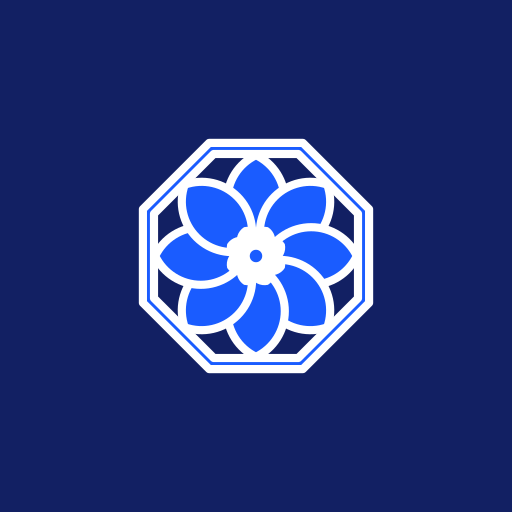
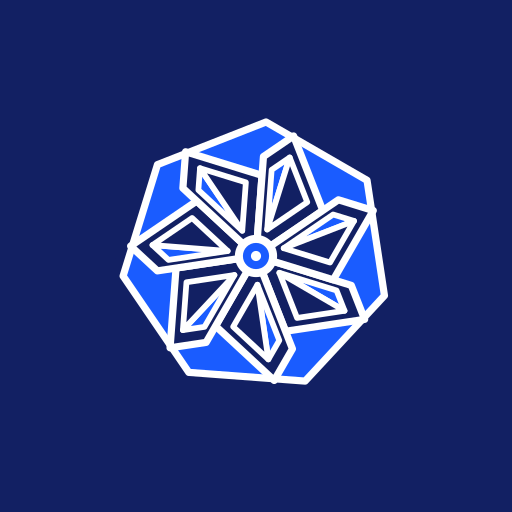
feat(brand): one asymmetric trapezoid, turned seven times
Replaces the vortex mark. The figure is a single tile: a trapezoid whose
interior angles are 360/7, 900/7, 540/7 and 720/7 degrees, which is 51.4286
at the centre, 128.5714 (the heptagon's own interior angle), 77.1429 and
102.8571. They sum to 360 and pair off to 180 across each leg, so exactly one
pair of sides is parallel and the shape is a true trapezoid.

It is deliberately not symmetric. An isosceles tile spun seven times gives a
flower, which is the obvious thing and reads as one; this one has a long leg
and a short one, so the seven copies all lean the same way and the mark turns
instead of sitting still.

Solved from the angles rather than from coordinates: the perimeter is walked
from the centre, turning by 180 minus each interior angle, and the last edge
is closed against the ray the first one left along. The angles are therefore
exact by construction rather than right to three decimals, and the apex being
exactly a seventh of a turn is what lets seven copies close with no gap.

Each tile carries three facets in the two blues, so a single shape reads as
two-toned and the ring reads as a pinwheel. Three tiers as before, because
one geometry cannot span 256px to 16px: facet edges go sub-pixel well before
24px, so the small tier draws the tile and its core and nothing finer.

The three.js mark is gone, replaced by motion/react: one orchestrated moment
on the sign-in screen, the tiles turning in a seventh apart so each arrives
[…]

Changed region(s): [[0.2188, 0.2188, 0.7812, 0.75]]

diff --git a/apps/frontend/src/lib/mark-geometry.ts b/apps/frontend/src/lib/mark-geometry.ts
@@ -19,7 +19,7 @@ export type MarkTier = "large" | "medium" | "small";
 export const MARK_CENTRE = 32;
 
 export const MARK_GEOMETRY: Record<MarkTier, { colour: MarkShape[]; mono: MarkShape[] }> = {
-  large: { colour: [{"d":"M60.64 43.86 L43.86 60.64 L20.14 60.64 L3.36 43.86 L3.36 20.14 L20.14 3.36 L43.86 3.36 L60.64 20.14 Z","fill":"#122063"},{"d":"M55.56 41.76 L41.76 55.56 L22.24 55.56 L8.44 41.76 L8.44 22.24 L22.24 8.44 L41.76 8.44 L55.56 22.24 Z","fill":"#1A5CFF","stroke":"#FFFFFF","strokeWidth":1.25},{"d":"M53.25 40.80 L40.80 53.25 L23.20 53.25 L10.75 40.80 L10.75 23.20 L23.20 10.75 L40.80 10.75 L53.25 23.20 Z","fill":"#122063","stroke":"#FFFFFF","strokeWidth":1.25},{"d":"M32 30.00 A11.84 11.84 0 0 1 32 10.00 A11.84 11.84 0 0 1 32 30.00 Z","fill":"#1A5CFF","stroke":"#FFFFFF","strokeWidth":1.25,"transform":"rotate(0 32 32)"},{"d":"M32 30.00 A11.84 11.84 0 0 1 32 10.00 A11.84 11.84 0 0 1 32 30.00 Z","fill":"#1A5CFF","stroke":"#FFFFFF","strokeWidth":1.25,"transform":"rotate(45 32 32)"},{"d":"M32 30.00 A11.84 11.84 0 0 1 32 10.00 A11.84 11.84 0 0 1 32 30.00 Z","fill":"#1A5CFF","stroke":"#FFFFFF","strokeWidth":1.25,"transform":"rotate(90 32 32)"},{"d":"M32 30.00 A11.84 11.84 0 0 1 32 10.00 A11.84 11.84 0 0 1 32 30.00 Z","fill":"#1A5CFF","stroke":"#FFFFFF","strokeWidth":1.25,"transform":"rotate(135 32 32)"},{"d":"M32 30.00 A11.84 11.84 0 0 1 32 10.00 A11.84 11.84 0 0 1 32 30.00 Z","fill":"#1A5CFF","stroke":"#FFFFFF","strokeWidth":1.25,"transform":"rotate(180 32 32)"},{"d":"M32 30.00 A11.84 11.84 0 0 1 32 10.00 A11.84 11.84 0 0 1 32 30.00 Z","fill":"#1A5CFF","stroke":"#FFFFFF","strokeWidth":1.25,"transform":"rotate(225 32 32)"},{"d":"M32 30.00 A11.84 11.84 0 0 1 32 10.00 A11.84 11.84 0 0 1 32 30.00 Z","fill":"#1A5CFF","stroke":"#FFFFFF","strokeWidth":1.25,"transform":"rotate(270 32 32)"},{"d":"M32 30.00 A11.84 11.84 0 0 1 32 10.00 A11.84 11.84 0 0 1 32 30.00 Z","fill":"#1A5CFF","stroke":"#FFFFFF","strokeWidth":1.25,"transform":"rotate(315 32 32)"},{"d":"M32 30.50 A7.52 7.52 0 0 1 32 17.00 A7.52 7.52 0 0 1 32 30.50 Z","fill":"#122063","stroke":"#FFFFFF","strokeWidth":1.25,"transform":"rotate(22.5 32 32)"},{"d":"M32 30.50 A7.52 7.52 0 0 1 32 17.00 A7.52 7.52 0 0 1 32 30.50 Z","fill":"#122063","stroke":"#FFFFFF","strokeWidth":1.25,"transform":"rotate(67.5 32 32)"},{"d":"M32 30.50 A7.52 7.52 0 0 1 32 17.00 A7.52 7.52 0 0 1 32 30.50 Z","fill":"#122063","stroke":"#FFFFFF","strokeWidth":1.25,"transform":"rotate(112.5 32 32)"},{"d":"M32 30.50 A7.52 7.52 0 0 1 32 17.00 A7.52 7.52 0 0 1 32 30.50 Z","fill":"#122063","stroke":"#FFFFFF","strokeWidth":1.25,"transform":"rotate(157.5 32 32)"},{"d":"M32 30.50 A7.52 7.52 0 0 1 32 17.00 A7.52 7.52 0 0 1 32 30.50 Z","fill":"#122063","stroke":"#FFFFFF","strokeWidth":1.25,"transform":"rotate(202.5 32 32)"},{"d":"M32 30.50 A7.52 7.52 0 0 1 32 17.00 A7.52 7.52 0 0 1 32 30.50 Z","fill":"#122063","stroke":"#FFFFFF","strokeWidth":1.25,"transform":"rotate(247.5 32 32)"},{"d":"M32 30.50 A7.52 7.52 0 0 1 32 17.00 A7.52 7.52 0 0 1 32 30.50 Z","fill":"#122063","stroke":"#FFFFFF","strokeWidth":1.25,"transform":"rotate(292.5 32 32)"},{"d":"M32 30.50 A7.52 7.52 0 0 1 32 17.00 A7.52 7.52 0 0 1 32 30.50 Z","fill":"#122063","stroke":"#FFFFFF","strokeWidth":1.25,"transform":"rotate(337.5 32 32)"},{"d":"M32 32.00 A3.81 3.81 0 0 1 32 24.50 A3.81 3.81 0 0 1 32 32.00 Z","fill":"#FFFFFF","transform":"rotate(22.5 32 32)"},{"d":"M32 32.00 A3.81 3.81 0 0 1 32 24.50 A3.81 3.81 0 0 1 32 32.00 Z","fill":"#FFFFFF","transform":"rotate(67.5 32 32)"},{"d":"M32 32.00 A3.81 3.81 0 0 1 32 24.50 A3.81 3.81 0 0 1 32 32.00 Z","fill":"#FFFFFF","transform":"rotate(112.5 32 32)"},{"d":"M32 32.00 A3.81 3.81 0 0 1 32 24.50 A3.81 3.81 0 0 1 32 32.00 Z","fill":"#FFFFFF","transform":"rotate(157.5 32 32)"},{"d":"M32 32.00 A3.81 3.81 0 0 1 32 24.50 A3.81 3.81 0 0 1 32 32.00 Z","fill":"#FFFFFF","transform":"rotate(202.5 32 32)"},{"d":"M32 32.00 A3.81 3.81 0 0 1 32 24.50 A3.81 3.81 0 0 1 32 32.00 Z","fill":"#FFFFFF","transform":"rotate(247.5 32 32)"},{"d":"M32 32.00 A3.81 3.81 0 0 1 32 24.50 A3.81 3.81 0 0 1 32 32.00 Z","fill":"#FFFFFF","transform":"rotate(292.5 32 32)"},{"d":"M32 32.00 A3.81 3.81 0 0 1 32 24.50 A3.81 3.81 0 0 1 32 32.00 Z","fill":"#FFFFFF","transform":"rotate(337.5 32 32)"},{"circle":true,"r":1.5,"fill":"#1A5CFF"}], mono: [{"d":"M60.64 43.86 L43.86 60.64 L20.14 60.64 L3.36 43.86 L3.36 20.14 L20.14 3.36 L43.86 3.36 L60.64 20.14 Z","fill":"currentColor"},{"d":"M55.56 41.76 L41.76 55.56 L22.24 55.56 L8.44 41.76 L8.44 22.24 L22.24 8.44 L41.76 8.44 L55.56 22.24 Z","fill":"currentColor","stroke":"#FFFFFF","strokeWidth":1.25},{"d":"M53.25 40.80 L40.80 53.25 L23.20 53.25 L10.75 40.80 L10.75 23.20 L23.20 10.75 L40.80 10.75 L53.25 23.20 Z","fill":"currentColor","stroke":"#FFFFFF","strokeWidth":1.25},{"d":"M32 30.00 A11.84 11.84 0 0 1 32 10.00 A11.84 11.84 0 0 1 32 30.00 Z","fill":"currentColor","stroke":"#FFFFFF","strokeWidth":1.25,"transform":"rotate(0 32 32)"},{"d":"M32 30.00 A11.84 11.84 0 0 1 32 10.00 A11.84 11.84 0 0 1 32 30.00 Z","fill":"currentColor","stroke":"#FFFFFF","strokeWidth":1.25,"transform":"rotate(45 32 32)"},{"d":"M32 30.00 A11.84 11.84 0 0 1 32 10.00 A11.84 11.84 0 0 1 32 30.00 Z","fill":"currentColor","stroke":"#FFFFFF","strokeWidth":1.25,"transform":"rotate(90 32 32)"},{"d":"M32 30.00 A11.84 11.84 0 0 1 32 10.00 A11.84 11.84 0 0 1 32 30.00 Z","fill":"currentColor","stroke":"#FFFFFF","strokeWidth":1.25,"transform":"rotate(135 32 32)"},{"d":"M32 30.00 A11.84 11.84 0 0 1 32 10.00 A11.84 11.84 0 0 1 32 30.00 Z","fill":"currentColor","stroke":"#FFFFFF","strokeWidth":1.25,"transform":"rotate(180 32 32)"},{"d":"M32 30.00 A11.84 11.84 0 0 1 32 10.00 A11.84 11.84 0 0 1 32 30.00 Z","fill":"currentColor","stroke":"#FFFFFF","strokeWidth":1.25,"transform":"rotate(225 32 32)"},{"d":"M32 30.00 A11.84 11.84 0 0 1 32 10.00 A11.84 11.84 0 0 1 32 30.00 Z","fill":"currentColor","stroke":"#FFFFFF","strokeWidth":1.25,"transform":"rotate(270 32 32)"},{"d":"M32 30.00 A11.84 11.84 0 0 1 32 10.00 A11.84 11.84 0 0 1 32 30.00 Z","fill":"currentColor","stroke":"#FFFFFF","strokeWidth":1.25,"transform":"rotate(315 32 32)"},{"d":"M32 30.50 A7.52 7.52 0 0 1 32 17.00 A7.52 7.52 0 0 1 32 30.50 Z","fill":"currentColor","stroke":"#FFFFFF","strokeWidth":1.25,"transform":"rotate(22.5 32 32)"},{"d":"M32 30.50 A7.52 7.52 0 0 1 32 17.00 A7.52 7.52 0 0 1 32 30.50 Z","fill":"currentColor","stroke":"#FFFFFF","strokeWidth":1.25,"transform":"rotate(67.5 32 32)"},{"d":"M32 30.50 A7.52 7.52 0 0 1 32 17.00 A7.52 7.52 0 0 1 32 30.50 Z","fill":"currentColor","stroke":"#FFFFFF","strokeWidth":1.25,"transform":"rotate(112.5 32 32)"},{"d":"M32 30.50 A7.52 7.52 0 0 1 32 17.00 A7.52 7.52 0 0 1 32 30.50 Z","fill":"currentColor","stroke":"#FFFFFF","strokeWidth":1.25,"transform":"rotate(157.5 32 32)"},{"d":"M32 30.50 A7.52 7.52 0 0 1 32 17.00 A7.52 7.52 0 0 1 32 30.50 Z","fill":"currentColor","stroke":"#FFFFFF","strokeWidth":1.25,"transform":"rotate(202.5 32 32)"},{"d":"M32 30.50 A7.52 7.52 0 0 1 32 17.00 A7.52 7.52 0 0 1 32 30.50 Z","fill":"currentColor","stroke":"#FFFFFF","strokeWidth":1.25,"transform":"rotate(247.5 32 32)"},{"d":"M32 30.50 A7.52 7.52 0 0 1 32 17.00 A7.52 7.52 0 0 1 32 30.50 Z","fill":"currentColor","stroke":"#FFFFFF","strokeWidth":1.25,"transform":"rotate(292.5 32 32)"},{"d":"M32 30.50 A7.52 7.52 0 0 1 32 17.00 A7.52 7.52 0 0 1 32 30.50 Z","fill":"currentColor","stroke":"#FFFFFF","strokeWidth":1.25,"transform":"rotate(337.5 32 32)"},{"d":"M32 32.00 A3.81 3.81 0 0 1 32 24.50 A3.81 3.81 0 0 1 32 32.00 Z","fill":"#FFFFFF","transform":"rotate(22.5 32 32)"},{"d":"M32 32.00 A3.81 3.81 0 0 1 32 24.50 A3.81 3.81 0 0 1 32 32.00 Z","fill":"#FFFFFF","transform":"rotate(67.5 32 32)"},{"d":"M32 32.00 A3.81 3.81 0 0 1 32 24.50 A3.81 3.81 0 0 1 32 32.00 Z","fill":"#FFFFFF","transform":"rotate(112.5 32 32)"},{"d":"M32 32.00 A3.81 3.81 0 0 1 32 24.50 A3.81 3.81 0 0 1 32 32.00 Z","fill":"#FFFFFF","transform":"rotate(157.5 32 32)"},{"d":"M32 32.00 A3.81 3.81 0 0 1 32 24.50 A3.81 3.81 0 0 1 32 32.00 Z","fill":"#FFFFFF","transform":"rotate(202.5 32 32)"},{"d":"M32 32.00 A3.81 3.81 0 0 1 32 24.50 A3.81 3.81 0 0 1 32 32.00 Z","fill":"#FFFFFF","transform":"rotate(247.5 32 32)"},{"d":"M32 32.00 A3.81 3.81 0 0 1 32 24.50 A3.81 3.81 0 0 1 32 32.00 Z","fill":"#FFFFFF","transform":"rotate(292.5 32 32)"},{"d":"M32 32.00 A3.81 3.81 0 0 1 32 24.50 A3.81 3.81 0 0 1 32 32.00 Z","fill":"#FFFFFF","transform":"rotate(337.5 32 32)"},{"circle":true,"r":1.5,"fill":"currentColor"}] },
-  medium: { colour: [{"d":"M60.64 43.86 L43.86 60.64 L20.14 60.64 L3.36 43.86 L3.36 20.14 L20.14 3.36 L43.86 3.36 L60.64 20.14 Z","fill":"#122063"},{"d":"M55.56 41.76 L41.76 55.56 L22.24 55.56 L8.44 41.76 L8.44 22.24 L22.24 8.44 L41.76 8.44 L55.56 22.24 Z","fill":"#1A5CFF","stroke":"#FFFFFF","strokeWidth":1.7},{"d":"M53.25 40.80 L40.80 53.25 L23.20 53.25 L10.75 40.80 L10.75 23.20 L23.20 10.75 L40.80 10.75 L53.25 23.20 Z","fill":"#122063","stroke":"#FFFFFF","strokeWidth":1.7},{"d":"M32 30.00 A10.52 10.52 0 0 1 32 11.00 A10.52 10.52 0 0 1 32 30.00 Z","fill":"#1A5CFF","stroke":"#FFFFFF","strokeWidth":1.7,"transform":"rotate(0 32 32)"},{"d":"M32 30.00 A10.52 10.52 0 0 1 32 11.00 A10.52 10.52 0 0 1 32 30.00 Z","fill":"#1A5CFF","stroke":"#FFFFFF","strokeWidth":1.7,"transform":"rotate(45 32 32)"},{"d":"M32 30.00 A10.52 10.52 0 0 1 32 11.00 A10.52 10.52 0 0 1 32 30.00 Z","fill":"#1A5CFF","stroke":"#FFFFFF","strokeWidth":1.7,"transform":"rotate(90 32 32)"},{"d":"M32 30.00 A10.52 10.52 0 0 1 32 11.00 A10.52 10.52 0 0 1 32 30.00 Z","fill":"#1A5CFF","stroke":"#FFFFFF","strokeWidth":1.7,"transform":"rotate(135 32 32)"},{"d":"M32 30.00 A10.52 10.52 0 0 1 32 11.00 A10.52 10.52 0 0 1 32 30.00 Z","fill":"#1A5CFF","stroke":"#FFFFFF","strokeWidth":1.7,"transform":"rotate(180 32 32)"},{"d":"M32 30.00 A10.52 10.52 0 0 1 32 11.00 A10.52 10.52 0 0 1 32 30.00 Z","fill":"#1A5CFF","stroke":"#FFFFFF","strokeWidth":1.7,"transform":"rotate(225 32 32)"},{"d":"M32 30.00 A10.52 10.52 0 0 1 32 11.00 A10.52 10.52 0 0 1 32 30.00 Z","fill":"#1A5CFF","stroke":"#FFFFFF","strokeWidth":1.7,"transform":"rotate(270 32 32)"},{"d":"M32 30.00 A10.52 10.52 0 0 1 32 11.00 A10.52 10.52 0 0 1 32 30.00 Z","fill":"#1A5CFF","stroke":"#FFFFFF","strokeWidth":1.7,"transform":"rotate(315 32 32)"},{"d":"M32 32.00 A3.30 3.30 0 0 1 32 25.50 A3.30 3.30 0 0 1 32 32.00 Z","fill":"#FFFFFF","transform":"rotate(22.5 32 32)"},{"d":"M32 32.00 A3.30 3.30 0 0 1 32 25.50 A3.30 3.30 0 0 1 32 32.00 Z","fill":"#FFFFFF","transform":"rotate(67.5 32 32)"},{"d":"M32 32.00 A3.30 3.30 0 0 1 32 25.50 A3.30 3.30 0 0 1 32 32.00 Z","fill":"#FFFFFF","transform":"rotate(112.5 32 32)"},{"d":"M32 32.00 A3.30 3.30 0 0 1 32 25.50 A3.30 3.30 0 0 1 32 32.00 Z","fill":"#FFFFFF","transform":"rotate(157.5 32 32)"},{"d":"M32 32.00 A3.30 3.30 0 0 1 32 25.50 A3.30 3.30 0 0 1 32 32.00 Z","fill":"#FFFFFF","transform":"rotate(202.5 32 32)"},{"d":"M32 32.00 A3.30 3.30 0 0 1 32 25.50 A3.30 3.30 0 0 1 32 32.00 Z","fill":"#FFFFFF","transform":"rotate(247.5 32 32)"},{"d":"M32 32.00 A3.30 3.30 0 0 1 32 25.50 A3.30 3.30 0 0 1 32 32.00 Z","fill":"#FFFFFF","transform":"rotate(292.5 32 32)"},{"d":"M32 32.00 A3.30 3.30 0 0 1 32 25.50 A3.30 3.30 0 0 1 32 32.00 Z","fill":"#FFFFFF","transform":"rotate(337.5 32 32)"},{"circle":true,"r":1.3,"fill":"#1A5CFF"}], mono: [{"d":"M60.64 43.86 L43.86 60.64 L20.14 60.64 L3.36 43.86 L3.36 20.14 L20.14 3.36 L43.86 3.36 L60.64 20.14 Z","fill":"currentColor"},{"d":"M55.56 41.76 L41.76 55.56 L22.24 55.56 L8.44 41.76 L8.44 22.24 L22.24 8.44 L41.76 8.44 L55.56 22.24 Z","fill":"currentColor","stroke":"#FFFFFF","strokeWidth":1.7},{"d":"M53.25 40.80 L40.80 53.25 L23.20 53.25 L10.75 40.80 L10.75 23.20 L23.20 10.75 L40.80 10.75 L53.25 23.20 Z","fill":"currentColor","stroke":"#FFFFFF","strokeWidth":1.7},{"d":"M32 30.00 A10.52 10.52 0 0 1 32 11.00 A10.52 10.52 0 0 1 32 30.00 Z","fill":"currentColor","stroke":"#FFFFFF","strokeWidth":1.7,"transform":"rotate(0 32 32)"},{"d":"M32 30.00 A10.52 10.52 0 0 1 32 11.00 A10.52 10.52 0 0 1 32 30.00 Z","fill":"currentColor","stroke":"#FFFFFF","strokeWidth":1.7,"transform":"rotate(45 32 32)"},{"d":"M32 30.00 A10.52 10.52 0 0 1 32 11.00 A10.52 10.52 0 0 1 32 30.00 Z","fill":"currentColor","stroke":"#FFFFFF","strokeWidth":1.7,"transform":"rotate(90 32 32)"},{"d":"M32 30.00 A10.52 10.52 0 0 1 32 11.00 A10.52 10.52 0 0 1 32 30.00 Z","fill":"currentColor","stroke":"#FFFFFF","strokeWidth":1.7,"transform":"rotate(135 32 32)"},{"d":"M32 30.00 A10.52 10.52 0 0 1 32 11.00 A10.52 10.52 0 0 1 32 30.00 Z","fill":"currentColor","stroke":"#FFFFFF","strokeWidth":1.7,"transform":"rotate(180 32 32)"},{"d":"M32 30.00 A10.52 10.52 0 0 1 32 11.00 A10.52 10.52 0 0 1 32 30.00 Z","fill":"currentColor","stroke":"#FFFFFF","strokeWidth":1.7,"transform":"rotate(225 32 32)"},{"d":"M32 30.00 A10.52 10.52 0 0 1 32 11.00 A10.52 10.52 0 0 1 32 30.00 Z","fill":"currentColor","stroke":"#FFFFFF","strokeWidth":1.7,"transform":"rotate(270 32 32)"},{"d":"M32 30.00 A10.52 10.52 0 0 1 32 11.00 A10.52 10.52 0 0 1 32 30.00 Z","fill":"currentColor","stroke":"#FFFFFF","strokeWidth":1.7,"transform":"rotate(315 32 32)"},{"d":"M32 32.00 A3.30 3.30 0 0 1 32 25.50 A3.30 3.30 0 0 1 32 32.00 Z","fill":"#FFFFFF","transform":"rotate(22.5 32 32)"},{"d":"M32 32.00 A3.30 3.30 0 0 1 32 25.50 A3.30 3.30 0 0 1 32 32.00 Z","fill":"#FFFFFF","transform":"rotate(67.5 32 32)"},{"d":"M32 32.00 A3.30 3.30 0 0 1 32 25.50 A3.30 3.30 0 0 1 32 32.00 Z","fill":"#FFFFFF","transform":"rotate(112.5 32 32)"},{"d":"M32 32.00 A3.30 3.30 0 0 1 32 25.50 A3.30 3.30 0 0 1 32 32.00 Z","fill":"#FFFFFF","transform":"rotate(157.5 32 32)"},{"d":"M32 32.00 A3.30 3.30 0 0 1 32 25.50 A3.30 3.30 0 0 1 32 32.00 Z","fill":"#FFFFFF","transform":"rotate(202.5 32 32)"},{"d":"M32 32.00 A3.30 3.30 0 0 1 32 25.50 A3.30 3.30 0 0 1 32 32.00 Z","fill":"#FFFFFF","transform":"rotate(247.5 32 32)"},{"d":"M32 32.00 A3.30 3.30 0 0 1 32 25.50 A3.30 3.30 0 0 1 32 32.00 Z","fill":"#FFFFFF","transform":"rotate(292.5 32 32)"},{"d":"M32 32.00 A3.30 3.30 0 0 1 32 25.50 A3.30 3.30 0 0 1 32 32.00 Z","fill":"#FFFFFF","transform":"rotate(337.5 32 32)"},{"circle":true,"r":1.3,"fill":"currentColor"}] },
-  small: { colour: [{"d":"M60.64 43.86 L43.86 60.64 L20.14 60.64 L3.36 43.86 L3.36 20.14 L20.14 3.36 L43.86 3.36 L60.64 20.14 Z","fill":"#122063"},{"d":"M55.56 41.76 L41.76 55.56 L22.24 55.56 L8.44 41.76 L8.44 22.24 L22.24 8.44 L41.76 8.44 L55.56 22.24 Z","fill":"#1A5CFF","stroke":"#FFFFFF","strokeWidth":2.6},{"d":"M53.25 40.80 L40.80 53.25 L23.20 53.25 L10.75 40.80 L10.75 23.20 L23.20 10.75 L40.80 10.75 L53.25 23.20 Z","fill":"#122063","stroke":"#FFFFFF","strokeWidth":2.6},{"d":"M32 30.50 A9.45 9.45 0 0 1 32 12.00 A9.45 9.45 0 0 1 32 30.50 Z","fill":"#1A5CFF","stroke":"#FFFFFF","strokeWidth":2.6,"transform":"rotate(0 32 32)"},{"d":"M32 30.50 A9.45 9.45 0 0 1 32 12.00 A9.45 9.45 0 0 1 32 30.50 Z","fill":"#1A5CFF","stroke":"#FFFFFF","strokeWidth":2.6,"transform":"rotate(60 32 32)"},{"d":"M32 30.50 A9.45 9.45 0 0 1 32 12.00 A9.45 9.45 0 0 1 32 30.50 Z","fill":"#1A5CFF","stroke":"#FFFFFF","strokeWidth":2.6,"transform":"rotate(120 32 32)"},{"d":"M32 30.50 A9.45 9.45 0 0 1 32 12.00 A9.45 9.45 0 0 1 32 30.50 Z","fill":"#1A5CFF","stroke":"#FFFFFF","strokeWidth":2.6,"transform":"rotate(180 32 32)"},{"d":"M32 30.50 A9.45 9.45 0 0 1 32 12.00 A9.45 9.45 0 0 1 32 30.50 Z","fill":"#1A5CFF","stroke":"#FFFFFF","strokeWidth":2.6,"transform":"rotate(240 32 32)"},{"d":"M32 30.50 A9.45 9.45 0 0 1 32 12.00 A9.45 9.45 0 0 1 32 30.50 Z","fill":"#1A5CFF","stroke":"#FFFFFF","strokeWidth":2.6,"transform":"rotate(300 32 32)"},{"d":"M32 32.00 A2.54 2.54 0 0 1 32 27.00 A2.54 2.54 0 0 1 32 32.00 Z","fill":"#FFFFFF","transform":"rotate(30 32 32)"},{"d":"M32 32.00 A2.54 2.54 0 0 1 32 27.00 A2.54 2.54 0 0 1 32 32.00 Z","fill":"#FFFFFF","transform":"rotate(90 32 32)"},{"d":"M32 32.00 A2.54 2.54 0 0 1 32 27.00 A2.54 2.54 0 0 1 32 32.00 Z","fill":"#FFFFFF","transform":"rotate(150 32 32)"},{"d":"M32 32.00 A2.54 2.54 0 0 1 32 27.00 A2.54 2.54 0 0 1 32 32.00 Z","fill":"#FFFFFF","transform":"rotate(210 32 32)"},{"d":"M32 32.00 A2.54 2.54 0 0 1 32 27.00 A2.54 2.54 0 0 1 32 32.00 Z","fill":"#FFFFFF","transform":"rotate(270 32 32)"},{"d":"M32 32.00 A2.54 2.54 0 0 1 32 27.00 A2.54 2.54 0 0 1 32 32.00 Z","fill":"#FFFFFF","transform":"rotate(330 32 32)"},{"circle":true,"r":1,"fill":"#1A5CFF"}], mono: [{"d":"M60.64 43.86 L43.86 60.64 L20.14 60.64 L3.36 43.86 L3.36 20.14 L20.14 3.36 L43.86 3.36 L60.64 20.14 Z","fill":"currentColor"},{"d":"M55.56 41.76 L41.76 55.56 L22.24 55.56 L8.44 41.76 L8.44 22.24 L22.24 8.44 L41.76 8.44 L55.56 22.24 Z","fill":"currentColor","stroke":"#FFFFFF","strokeWidth":2.6},{"d":"M53.25 40.80 L40.80 53.25 L23.20 53.25 L10.75 40.80 L10.75 23.20 L23.20 10.75 L40.80 10.75 L53.25 23.20 Z","fill":"currentColor","stroke":"#FFFFFF","strokeWidth":2.6},{"d":"M32 30.50 A9.45 9.45 0 0 1 32 12.00 A9.45 9.45 0 0 1 32 30.50 Z","fill":"currentColor","stroke":"#FFFFFF","strokeWidth":2.6,"transform":"rotate(0 32 32)"},{"d":"M32 30.50 A9.45 9.45 0 0 1 32 12.00 A9.45 9.45 0 0 1 32 30.50 Z","fill":"currentColor","stroke":"#FFFFFF","strokeWidth":2.6,"transform":"rotate(60 32 32)"},{"d":"M32 30.50 A9.45 9.45 0 0 1 32 12.00 A9.45 9.45 0 0 1 32 30.50 Z","fill":"currentColor","stroke":"#FFFFFF","strokeWidth":2.6,"transform":"rotate(120 32 32)"},{"d":"M32 30.50 A9.45 9.45 0 0 1 32 12.00 A9.45 9.45 0 0 1 32 30.50 Z","fill":"currentColor","stroke":"#FFFFFF","strokeWidth":2.6,"transform":"rotate(180 32 32)"},{"d":"M32 30.50 A9.45 9.45 0 0 1 32 12.00 A9.45 9.45 0 0 1 32 30.50 Z","fill":"currentColor","stroke":"#FFFFFF","strokeWidth":2.6,"transform":"rotate(240 32 32)"},{"d":"M32 30.50 A9.45 9.45 0 0 1 32 12.00 A9.45 9.45 0 0 1 32 30.50 Z","fill":"currentColor","stroke":"#FFFFFF","strokeWidth":2.6,"transform":"rotate(300 32 32)"},{"d":"M32 32.00 A2.54 2.54 0 0 1 32 27.00 A2.54 2.54 0 0 1 32 32.00 Z","fill":"#FFFFFF","transform":"rotate(30 32 32)"},{"d":"M32 32.00 A2.54 2.54 0 0 1 32 27.00 A2.54 2.54 0 0 1 32 32.00 Z","fill":"#FFFFFF","transform":"rotate(90 32 32)"},{"d":"M32 32.00 A2.54 2.54 0 0 1 32 27.00 A2.54 2.54 0 0 1 32 32.00 Z","fill":"#FFFFFF","transform":"rotate(150 32 32)"},{"d":"M32 32.00 A2.54 2.54 0 0 1 32 27.00 A2.54 2.54 0 0 1 32 32.00 Z","fill":"#FFFFFF","transform":"rotate(210 32 32)"},{"d":"M32 32.00 A2.54 2.54 0 0 1 32 27.00 A2.54 2.54 0 0 1 32 32.00 Z","fill":"#FFFFFF","transform":"rotate(270 32 32)"},{"d":"M32 32.00 A2.54 2.54 0 0 1 32 27.00 A2.54 2.54 0 0 1 32 32.00 Z","fill":"#FFFFFF","transform":"rotate(330 32 32)"},{"circle":true,"r":1,"fill":"currentColor"}] },
+  large: { colour: [{"d":"M61.62 41.14 L43.33 60.86 L16.50 58.85 L1.35 36.62 L9.28 10.91 L34.32 1.09 L57.61 14.54 Z","fill":"#122063"},{"d":"M58.76 40.25 L42.23 58.06 L18.00 56.25 L4.31 36.17 L11.47 12.96 L34.09 4.08 L55.13 16.23 Z","fill":"#1A5CFF","stroke":"#FFFFFF","strokeWidth":1.1},{"d":"M32.00 32.00 L52.94 32.00 L57.71 37.98 L42.58 45.27 Z","fill":"#122063","stroke":"#FFFFFF","strokeWidth":1.1,"transform":"rotate(17.142857142857142 32 32)"},{"d":"M37.44 33.83 L50.42 33.83 L53.38 37.54 Z","fill":"#1A5CFF","stroke":"#FFFFFF","strokeWidth":0.8800000000000001,"transform":"rotate(17.142857142857142 32 32)"},{"d":"M37.44 33.83 L53.38 37.54 L44.00 42.06 Z","fill":"#122063","stroke":"#FFFFFF","strokeWidth":0.8800000000000001,"transform":"rotate(17.142857142857142 32 32)"},{"d":"M52.94 32.00 L55.33 34.99 L51.90 35.68 L50.42 33.83 Z","fill":"#1A5CFF","stroke":"#FFFFFF","strokeWidth":0.77,"transform":"rotate(17.142857142857142 32 32)"},{"d":"M42.58 45.27 L44.00 42.06 L37.44 33.83 Z","fill":"#1A5CFF","stroke":"#FFFFFF","strokeWidth":0.77,"transform":"rotate(17.142857142857142 32 32)"},{"d":"M32.00 32.00 L52.94 32.00 L57.71 37.98 L42.58 45.27 Z","fill":"#122063","stroke":"#FFFFFF","strokeWidth":1.1,"transform":"rotate(68.57142857142857 32 32)"},{"d":"M37.44 33.83 L50.42 33.83 L53.38 37.54 Z","fill":"#1A5CFF","stroke":"#FFFFFF","strokeWidth":0.8800000000000001,"transform":"rotate(68.57142857142857 32 32)"},{"d":"M37.44 33.83 L53.38 37.54 L44.00 42.06 Z","fill":"#122063","stroke":"#FFFFFF","strokeWidth":0.8800000000000001,"transform":"rotate(68.57142857142857 32 32)"},{"d":"M52.94 32.00 L55.33 34.99 L51.90 35.68 L50.42 33.83 Z","fill":"#1A5CFF","stroke":"#FFFFFF","strokeWidth":0.77,"transform":"rotate(68.57142857142857 32 32)"},{"d":"M42.58 45.27 L44.00 42.06 L37.44 33.83 Z","fill":"#1A5CFF","stroke":"#FFFFFF","strokeWidth":0.77,"transform":"rotate(68.57142857142857 32 32)"},{"d":"M32.00 32.00 L52.94 32.00 L57.71 37.98 L42.58 45.27 Z","fill":"#122063","stroke":"#FFFFFF","strokeWidth":1.1,"transform":"rotate(120 32 32)"},{"d":"M37.44 33.83 L50.42 33.83 L53.38 37.54 Z","fill":"#1A5CFF","stroke":"#FFFFFF","strokeWidth":0.8800000000000001,"transform":"rotate(120 32 32)"},{"d":"M37.44 33.83 L53.38 37.54 L44.00 42.06 Z","fill":"#122063","stroke":"#FFFFFF","strokeWidth":0.8800000000000001,"transform":"rotate(120 32 32)"},{"d":"M52.94 32.00 L55.33 34.99 L51.90 35.68 L50.42 33.83 Z","fill":"#1A5CFF","stroke":"#FFFFFF","strokeWidth":0.77,"transform":"rotate(120 32 32)"},{"d":"M42.58 45.27 L44.00 42.06 L37.44 33.83 Z","fill":"#1A5CFF","stroke":"#FFFFFF","strokeWidth":0.77,"transform":"rotate(120 32 32)"},{"d":"M32.00 32.00 L52.94 32.00 L57.71 37.98 L42.58 45.27 Z","fill":"#122063","stroke":"#FFFFFF","strokeWidth":1.1,"transform":"rotate(171.42857142857142 32 32)"},{"d":"M37.44 33.83 L50.42 33.83 L53.38 37.54 Z","fill":"#1A5CFF","stroke":"#FFFFFF","strokeWidth":0.8800000000000001,"transform":"rotate(171.42857142857142 32 32)"},{"d":"M37.44 33.83 L53.38 37.54 L44.00 42.06 Z","fill":"#122063","stroke":"#FFFFFF","strokeWidth":0.8800000000000001,"transform":"rotate(171.42857142857142 32 32)"},{"d":"M52.94 32.00 L55.33 34.99 L51.90 35.68 L50.42 33.83 Z","fill":"#1A5CFF","stroke":"#FFFFFF","strokeWidth":0.77,"transform":"rotate(171.42857142857142 32 32)"},{"d":"M42.58 45.27 L44.00 42.06 L37.44 33.83 Z","fill":"#1A5CFF","stroke":"#FFFFFF","strokeWidth":0.77,"transform":"rotate(171.42857142857142 32 32)"},{"d":"M32.00 32.00 L52.94 32.00 L57.71 37.98 L42.58 45.27 Z","fill":"#122063","stroke":"#FFFFFF","strokeWidth":1.1,"transform":"rotate(222.85714285714286 32 32)"},{"d":"M37.44 33.83 L50.42 33.83 L53.38 37.54 Z","fill":"#1A5CFF","stroke":"#FFFFFF","strokeWidth":0.8800000000000001,"transform":"rotate(222.85714285714286 32 32)"},{"d":"M37.44 33.83 L53.38 37.54 L44.00 42.06 Z","fill":"#122063","stroke":"#FFFFFF","strokeWidth":0.8800000000000001,"transform":"rotate(222.85714285714286 32 32)"},{"d":"M52.94 32.00 L55.33 34.99 L51.90 35.68 L50.42 33.83 Z","fill":"#1A5CFF","stroke":"#FFFFFF","strokeWidth":0.77,"transform":"rotate(222.85714285714286 32 32)"},{"d":"M42.58 45.27 L44.00 42.06 L37.44 33.83 Z","fill":"#1A5CFF","stroke":"#FFFFFF","strokeWidth":0.77,"transform":"rotate(222.85714285714286 32 32)"},{"d":"M32.00 32.00 L52.94 32.00 L57.71 37.98 L42.58 45.27 Z","fill":"#122063","stroke":"#FFFFFF","strokeWidth":1.1,"transform":"rotate(274.28571428571433 32 32)"},{"d":"M37.44 33.83 L50.42 33.83 L53.38 37.54 Z","fill":"#1A5CFF","stroke":"#FFFFFF","strokeWidth":0.8800000000000001,"transform":"rotate(274.28571428571433 32 32)"},{"d":"M37.44 33.83 L53.38 37.54 L44.00 42.06 Z","fill":"#122063","stroke":"#FFFFFF","strokeWidth":0.8800000000000001,"transform":"rotate(274.28571428571433 32 32)"},{"d":"M52.94 32.00 L55.33 34.99 L51.90 35.68 L50.42 33.83 Z","fill":"#1A5CFF","stroke":"#FFFFFF","strokeWidth":0.77,"transform":"rotate(274.28571428571433 32 32)"},{"d":"M42.58 45.27 L44.00 42.06 L37.44 33.83 Z","fill":"#1A5CFF","stroke":"#FFFFFF","strokeWidth":0.77,"transform":"rotate(274.28571428571433 32 32)"},{"d":"M32.00 32.00 L52.94 32.00 L57.71 37.98 L42.58 45.27 Z","fill":"#122063","stroke":"#FFFFFF","strokeWidth":1.1,"transform":"rotate(325.7142857142857 32 32)"},{"d":"M37.44 33.83 L50.42 33.83 L53.38 37.54 Z","fill":"#1A5CFF","stroke":"#FFFFFF","strokeWidth":0.8800000000000001,"transform":"rotate(325.7142857142857 32 32)"},{"d":"M37.44 33.83 L53.38 37.54 L44.00 42.06 Z","fill":"#122063","stroke":"#FFFFFF","strokeWidth":0.8800000000000001,"transform":"rotate(325.7142857142857 32 32)"},{"d":"M52.94 32.00 L55.33 34.99 L51.90 35.68 L50.42 33.83 Z","fill":"#1A5CFF","stroke":"#FFFFFF","strokeWidth":0.77,"transform":"rotate(325.7142857142857 32 32)"},{"d":"M42.58 45.27 L44.00 42.06 L37.44 33.83 Z","fill":"#1A5CFF","stroke":"#FFFFFF","strokeWidth":0.77,"transform":"rotate(325.7142857142857 32 32)"},{"circle":true,"r":4.6,"fill":"#FFFFFF"},{"circle":true,"r":2.852,"fill":"#1A5CFF"},{"circle":true,"r":1.1039999999999999,"fill":"#FFFFFF"}], mono: [{"d":"M61.62 41.14 L43.33 60.86 L16.50 58.85 L1.35 36.62 L9.28 10.91 L34.32 1.09 L57.61 14.54 Z","fill":"currentColor"},{"d":"M58.76 40.25 L42.23 58.06 L18.00 56.25 L4.31 36.17 L11.47 12.96 L34.09 4.08 L55.13 16.23 Z","fill":"currentColor","stroke":"#FFFFFF","strokeWidth":1.1},{"d":"M32.00 32.00 L52.94 32.00 L57.71 37.98 L42.58 45.27 Z","fill":"currentColor","stroke":"#FFFFFF","strokeWidth":1.1,"transform":"rotate(17.142857142857142 32 32)"},{"d":"M37.44 33.83 L50.42 33.83 L53.38 37.54 Z","fill":"currentColor","stroke":"#FFFFFF","strokeWidth":0.8800000000000001,"transform":"rotate(17.142857142857142 32 32)"},{"d":"M37.44 33.83 L53.38 37.54 L44.00 42.06 Z","fill":"currentColor","stroke":"#FFFFFF","strokeWidth":0.8800000000000001,"transform":"rotate(17.142857142857142 32 32)"},{"d":"M52.94 32.00 L55.33 34.99 L51.90 35.68 L50.42 33.83 Z","fill":"currentColor","stroke":"#FFFFFF","strokeWidth":0.77,"transform":"rotate(17.142857142857142 32 32)"},{"d":"M42.58 45.27 L44.00 42.06 L37.44 33.83 Z","fill":"currentColor","stroke":"#FFFFFF","strokeWidth":0.77,"transform":"rotate(17.142857142857142 32 32)"},{"d":"M32.00 32.00 L52.94 32.00 L57.71 37.98 L42.58 45.27 Z","fill":"currentColor","stroke":"#FFFFFF","strokeWidth":1.1,"transform":"rotate(68.57142857142857 32 32)"},{"d":"M37.44 33.83 L50.42 33.83 L53.38 37.54 Z","fill":"currentColor","stroke":"#FFFFFF","strokeWidth":0.8800000000000001,"transform":"rotate(68.57142857142857 32 32)"},{"d":"M37.44 33.83 L53.38 37.54 L44.00 42.06 Z","fill":"currentColor","stroke":"#FFFFFF","strokeWidth":0.8800000000000001,"transform":"rotate(68.57142857142857 32 32)"},{"d":"M52.94 32.00 L55.33 34.99 L51.90 35.68 L50.42 33.83 Z","fill":"currentColor","stroke":"#FFFFFF","strokeWidth":0.77,"transform":"rotate(68.57142857142857 32 32)"},{"d":"M42.58 45.27 L44.00 42.06 L37.44 33.83 Z","fill":"currentColor","stroke":"#FFFFFF","strokeWidth":0.77,"transform":"rotate(68.57142857142857 32 32)"},{"d":"M32.00 32.00 L52.94 32.00 L57.71 37.98 L42.58 45.27 Z","fill":"currentColor","stroke":"#FFFFFF","strokeWidth":1.1,"transform":"rotate(120 32 32)"},{"d":"M37.44 33.83 L50.42 33.83 L53.38 37.54 Z","fill":"currentColor","stroke":"#FFFFFF","strokeWidth":0.8800000000000001,"transform":"rotate(120 32 32)"},{"d":"M37.44 33.83 L53.38 37.54 L44.00 42.06 Z","fill":"currentColor","stroke":"#FFFFFF","strokeWidth":0.8800000000000001,"transform":"rotate(120 32 32)"},{"d":"M52.94 32.00 L55.33 34.99 L51.90 35.68 L50.42 33.83 Z","fill":"currentColor","stroke":"#FFFFFF","strokeWidth":0.77,"transform":"rotate(120 32 32)"},{"d":"M42.58 45.27 L44.00 42.06 L37.44 33.83 Z","fill":"currentColor","stroke":"#FFFFFF","strokeWidth":0.77,"transform":"rotate(120 32 32)"},{"d":"M32.00 32.00 L52.94 32.00 L57.71 37.98 L42.58 45.27 Z","fill":"currentColor","stroke":"#FFFFFF","strokeWidth":1.1,"transform":"rotate(171.42857142857142 32 32)"},{"d":"M37.44 33.83 L50.42 33.83 L53.38 37.54 Z","fill":"currentColor","stroke":"#FFFFFF","strokeWidth":0.8800000000000001,"transform":"rotate(171.42857142857142 32 32)"},{"d":"M37.44 33.83 L53.38 37.54 L44.00 42.06 Z","fill":"currentColor","stroke":"#FFFFFF","strokeWidth":0.8800000000000001,"transform":"rotate(171.42857142857142 32 32)"},{"d":"M52.94 32.00 L55.33 34.99 L51.90 35.68 L50.42 33.83 Z","fill":"currentColor","stroke":"#FFFFFF","strokeWidth":0.77,"transform":"rotate(171.42857142857142 32 32)"},{"d":"M42.58 45.27 L44.00 42.06 L37.44 33.83 Z","fill":"currentColor","stroke":"#FFFFFF","strokeWidth":0.77,"transform":"rotate(171.42857142857142 32 32)"},{"d":"M32.00 32.00 L52.94 32.00 L57.71 37.98 L42.58 45.27 Z","fill":"currentColor","stroke":"#FFFFFF","strokeWidth":1.1,"transform":"rotate(222.85714285714286 32 32)"},{"d":"M37.44 33.83 L50.42 33.83 L53.38 37.54 Z","fill":"currentColor","stroke":"#FFFFFF","strokeWidth":0.8800000000000001,"transform":"rotate(222.85714285714286 32 32)"},{"d":"M37.44 33.83 L53.38 37.54 L44.00 42.06 Z","fill":"currentColor","stroke":"#FFFFFF","strokeWidth":0.8800000000000001,"transform":"rotate(222.85714285714286 32 32)"},{"d":"M52.94 32.00 L55.33 34.99 L51.90 35.68 L50.42 33.83 Z","fill":"currentColor","stroke":"#FFFFFF","strokeWidth":0.77,"transform":"rotate(222.85714285714286 32 32)"},{"d":"M42.58 45.27 L44.00 42.06 L37.44 33.83 Z","fill":"currentColor","stroke":"#FFFFFF","strokeWidth":0.77,"transform":"rotate(222.85714285714286 32 32)"},{"d":"M32.00 32.00 L52.94 32.00 L57.71 37.98 L42.58 45.27 Z","fill":"currentColor","stroke":"#FFFFFF","strokeWidth":1.1,"transform":"rotate(274.28571428571433 32 32)"},{"d":"M37.44 33.83 L50.42 33.83 L53.38 37.54 Z","fill":"currentColor","stroke":"#FFFFFF","strokeWidth":0.8800000000000001,"transform":"rotate(274.28571428571433 32 32)"},{"d":"M37.44 33.83 L53.38 37.54 L44.00 42.06 Z","fill":"currentColor","stroke":"#FFFFFF","strokeWidth":0.8800000000000001,"transform":"rotate(274.28571428571433 32 32)"},{"d":"M52.94 32.00 L55.33 34.99 L51.90 35.68 L50.42 33.83 Z","fill":"currentColor","stroke":"#FFFFFF","strokeWidth":0.77,"transform":"rotate(274.28571428571433 32 32)"},{"d":"M42.58 45.27 L44.00 42.06 L37.44 33.83 Z","fill":"currentColor","stroke":"#FFFFFF","strokeWidth":0.77,"transform":"rotate(274.28571428571433 32 32)"},{"d":"M32.00 32.00 L52.94 32.00 L57.71 37.98 L42.58 45.27 Z","fill":"currentColor","stroke":"#FFFFFF","strokeWidth":1.1,"transform":"rotate(325.7142857142857 32 32)"},{"d":"M37.44 33.83 L50.42 33.83 L53.38 37.54 Z","fill":"currentColor","stroke":"#FFFFFF","strokeWidth":0.8800000000000001,"transform":"rotate(325.7142857142857 32 32)"},{"d":"M37.44 33.83 L53.38 37.54 L44.00 42.06 Z","fill":"currentColor","stroke":"#FFFFFF","strokeWidth":0.8800000000000001,"transform":"rotate(325.7142857142857 32 32)"},{"d":"M52.94 32.00 L55.33 34.99 L51.90 35.68 L50.42 33.83 Z","fill":"currentColor","stroke":"#FFFFFF","strokeWidth":0.77,"transform":"rotate(325.7142857142857 32 32)"},{"d":"M42.58 45.27 L44.00 42.06 L37.44 33.83 Z","fill":"currentColor","stroke":"#FFFFFF","strokeWidth":0.77,"transform":"rotate(325.7142857142857 32 32)"},{"circle":true,"r":4.6,"fill":"#FFFFFF"},{"circle":true,"r":2.852,"fill":"currentColor"},{"circle":true,"r":1.1039999999999999,"fill":"#FFFFFF"}] },
+  medium: { colour: [{"d":"M61.62 41.14 L43.33 60.86 L16.50 58.85 L1.35 36.62 L9.28 10.91 L34.32 1.09 L57.61 14.54 Z","fill":"#122063"},{"d":"M58.76 40.25 L42.23 58.06 L18.00 56.25 L4.31 36.17 L11.47 12.96 L34.09 4.08 L55.13 16.23 Z","fill":"#1A5CFF","stroke":"#FFFFFF","strokeWidth":1.5},{"d":"M32.00 32.00 L52.78 32.00 L57.52 37.94 L42.50 45.17 Z","fill":"#122063","stroke":"#FFFFFF","strokeWidth":1.5,"transform":"rotate(17.142857142857142 32 32)"},{"d":"M37.68 33.91 L50.15 33.91 L52.99 37.47 Z","fill":"#1A5CFF","stroke":"#FFFFFF","strokeWidth":1.2000000000000002,"transform":"rotate(17.142857142857142 32 32)"},{"d":"M37.68 33.91 L52.99 37.47 L43.98 41.81 Z","fill":"#122063","stroke":"#FFFFFF","strokeWidth":1.2000000000000002,"transform":"rotate(17.142857142857142 32 32)"},{"d":"M32.00 32.00 L52.78 32.00 L57.52 37.94 L42.50 45.17 Z","fill":"#122063","stroke":"#FFFFFF","strokeWidth":1.5,"transform":"rotate(68.57142857142857 32 32)"},{"d":"M37.68 33.91 L50.15 33.91 L52.99 37.47 Z","fill":"#1A5CFF","stroke":"#FFFFFF","strokeWidth":1.2000000000000002,"transform":"rotate(68.57142857142857 32 32)"},{"d":"M37.68 33.91 L52.99 37.47 L43.98 41.81 Z","fill":"#122063","stroke":"#FFFFFF","strokeWidth":1.2000000000000002,"transform":"rotate(68.57142857142857 32 32)"},{"d":"M32.00 32.00 L52.78 32.00 L57.52 37.94 L42.50 45.17 Z","fill":"#122063","stroke":"#FFFFFF","strokeWidth":1.5,"transform":"rotate(120 32 32)"},{"d":"M37.68 33.91 L50.15 33.91 L52.99 37.47 Z","fill":"#1A5CFF","stroke":"#FFFFFF","strokeWidth":1.2000000000000002,"transform":"rotate(120 32 32)"},{"d":"M37.68 33.91 L52.99 37.47 L43.98 41.81 Z","fill":"#122063","stroke":"#FFFFFF","strokeWidth":1.2000000000000002,"transform":"rotate(120 32 32)"},{"d":"M32.00 32.00 L52.78 32.00 L57.52 37.94 L42.50 45.17 Z","fill":"#122063","stroke":"#FFFFFF","strokeWidth":1.5,"transform":"rotate(171.42857142857142 32 32)"},{"d":"M37.68 33.91 L50.15 33.91 L52.99 37.47 Z","fill":"#1A5CFF","stroke":"#FFFFFF","strokeWidth":1.2000000000000002,"transform":"rotate(171.42857142857142 32 32)"},{"d":"M37.68 33.91 L52.99 37.47 L43.98 41.81 Z","fill":"#122063","stroke":"#FFFFFF","strokeWidth":1.2000000000000002,"transform":"rotate(171.42857142857142 32 32)"},{"d":"M32.00 32.00 L52.78 32.00 L57.52 37.94 L42.50 45.17 Z","fill":"#122063","stroke":"#FFFFFF","strokeWidth":1.5,"transform":"rotate(222.85714285714286 32 32)"},{"d":"M37.68 33.91 L50.15 33.91 L52.99 37.47 Z","fill":"#1A5CFF","stroke":"#FFFFFF","strokeWidth":1.2000000000000002,"transform":"rotate(222.85714285714286 32 32)"},{"d":"M37.68 33.91 L52.99 37.47 L43.98 41.81 Z","fill":"#122063","stroke":"#FFFFFF","strokeWidth":1.2000000000000002,"transform":"rotate(222.85714285714286 32 32)"},{"d":"M32.00 32.00 L52.78 32.00 L57.52 37.94 L42.50 45.17 Z","fill":"#122063","stroke":"#FFFFFF","strokeWidth":1.5,"transform":"rotate(274.28571428571433 32 32)"},{"d":"M37.68 33.91 L50.15 33.91 L52.99 37.47 Z","fill":"#1A5CFF","stroke":"#FFFFFF","strokeWidth":1.2000000000000002,"transform":"rotate(274.28571428571433 32 32)"},{"d":"M37.68 33.91 L52.99 37.47 L43.98 41.81 Z","fill":"#122063","stroke":"#FFFFFF","strokeWidth":1.2000000000000002,"transform":"rotate(274.28571428571433 32 32)"},{"d":"M32.00 32.00 L52.78 32.00 L57.52 37.94 L42.50 45.17 Z","fill":"#122063","stroke":"#FFFFFF","strokeWidth":1.5,"transform":"rotate(325.7142857142857 32 32)"},{"d":"M37.68 33.91 L50.15 33.91 L52.99 37.47 Z","fill":"#1A5CFF","stroke":"#FFFFFF","strokeWidth":1.2000000000000002,"transform":"rotate(325.7142857142857 32 32)"},{"d":"M37.68 33.91 L52.99 37.47 L43.98 41.81 Z","fill":"#122063","stroke":"#FFFFFF","strokeWidth":1.2000000000000002,"transform":"rotate(325.7142857142857 32 32)"},{"circle":true,"r":4.4,"fill":"#FFFFFF"},{"circle":true,"r":2.728,"fill":"#1A5CFF"},{"circle":true,"r":1.056,"fill":"#FFFFFF"}], mono: [{"d":"M61.62 41.14 L43.33 60.86 L16.50 58.85 L1.35 36.62 L9.28 10.91 L34.32 1.09 L57.61 14.54 Z","fill":"currentColor"},{"d":"M58.76 40.25 L42.23 58.06 L18.00 56.25 L4.31 36.17 L11.47 12.96 L34.09 4.08 L55.13 16.23 Z","fill":"currentColor","stroke":"#FFFFFF","strokeWidth":1.5},{"d":"M32.00 32.00 L52.78 32.00 L57.52 37.94 L42.50 45.17 Z","fill":"currentColor","stroke":"#FFFFFF","strokeWidth":1.5,"transform":"rotate(17.142857142857142 32 32)"},{"d":"M37.68 33.91 L50.15 33.91 L52.99 37.47 Z","fill":"currentColor","stroke":"#FFFFFF","strokeWidth":1.2000000000000002,"transform":"rotate(17.142857142857142 32 32)"},{"d":"M37.68 33.91 L52.99 37.47 L43.98 41.81 Z","fill":"currentColor","stroke":"#FFFFFF","strokeWidth":1.2000000000000002,"transform":"rotate(17.142857142857142 32 32)"},{"d":"M32.00 32.00 L52.78 32.00 L57.52 37.94 L42.50 45.17 Z","fill":"currentColor","stroke":"#FFFFFF","strokeWidth":1.5,"transform":"rotate(68.57142857142857 32 32)"},{"d":"M37.68 33.91 L50.15 33.91 L52.99 37.47 Z","fill":"currentColor","stroke":"#FFFFFF","strokeWidth":1.2000000000000002,"transform":"rotate(68.57142857142857 32 32)"},{"d":"M37.68 33.91 L52.99 37.47 L43.98 41.81 Z","fill":"currentColor","stroke":"#FFFFFF","strokeWidth":1.2000000000000002,"transform":"rotate(68.57142857142857 32 32)"},{"d":"M32.00 32.00 L52.78 32.00 L57.52 37.94 L42.50 45.17 Z","fill":"currentColor","stroke":"#FFFFFF","strokeWidth":1.5,"transform":"rotate(120 32 32)"},{"d":"M37.68 33.91 L50.15 33.91 L52.99 37.47 Z","fill":"currentColor","stroke":"#FFFFFF","strokeWidth":1.2000000000000002,"transform":"rotate(120 32 32)"},{"d":"M37.68 33.91 L52.99 37.47 L43.98 41.81 Z","fill":"currentColor","stroke":"#FFFFFF","strokeWidth":1.2000000000000002,"transform":"rotate(120 32 32)"},{"d":"M32.00 32.00 L52.78 32.00 L57.52 37.94 L42.50 45.17 Z","fill":"currentColor","stroke":"#FFFFFF","strokeWidth":1.5,"transform":"rotate(171.42857142857142 32 32)"},{"d":"M37.68 33.91 L50.15 33.91 L52.99 37.47 Z","fill":"currentColor","stroke":"#FFFFFF","strokeWidth":1.2000000000000002,"transform":"rotate(171.42857142857142 32 32)"},{"d":"M37.68 33.91 L52.99 37.47 L43.98 41.81 Z","fill":"currentColor","stroke":"#FFFFFF","strokeWidth":1.2000000000000002,"transform":"rotate(171.42857142857142 32 32)"},{"d":"M32.00 32.00 L52.78 32.00 L57.52 37.94 L42.50 45.17 Z","fill":"currentColor","stroke":"#FFFFFF","strokeWidth":1.5,"transform":"rotate(222.85714285714286 32 32)"},{"d":"M37.68 33.91 L50.15 33.91 L52.99 37.47 Z","fill":"currentColor","stroke":"#FFFFFF","strokeWidth":1.2000000000000002,"transform":"rotate(222.85714285714286 32 32)"},{"d":"M37.68 33.91 L52.99 37.47 L43.98 41.81 Z","fill":"currentColor","stroke":"#FFFFFF","strokeWidth":1.2000000000000002,"transform":"rotate(222.85714285714286 32 32)"},{"d":"M32.00 32.00 L52.78 32.00 L57.52 37.94 L42.50 45.17 Z","fill":"currentColor","stroke":"#FFFFFF","strokeWidth":1.5,"transform":"rotate(274.28571428571433 32 32)"},{"d":"M37.68 33.91 L50.15 33.91 L52.99 37.47 Z","fill":"currentColor","stroke":"#FFFFFF","strokeWidth":1.2000000000000002,"transform":"rotate(274.28571428571433 32 32)"},{"d":"M37.68 33.91 L52.99 37.47 L43.98 41.81 Z","fill":"currentColor","stroke":"#FFFFFF","strokeWidth":1.2000000000000002,"transform":"rotate(274.28571428571433 32 32)"},{"d":"M32.00 32.00 L52.78 32.00 L57.52 37.94 L42.50 45.17 Z","fill":"currentColor","stroke":"#FFFFFF","strokeWidth":1.5,"transform":"rotate(325.7142857142857 32 32)"},{"d":"M37.68 33.91 L50.15 33.91 L52.99 37.47 Z","fill":"currentColor","stroke":"#FFFFFF","strokeWidth":1.2000000000000002,"transform":"rotate(325.7142857142857 32 32)"},{"d":"M37.68 33.91 L52.99 37.47 L43.98 41.81 Z","fill":"currentColor","stroke":"#FFFFFF","strokeWidth":1.2000000000000002,"transform":"rotate(325.7142857142857 32 32)"},{"circle":true,"r":4.4,"fill":"#FFFFFF"},{"circle":true,"r":2.728,"fill":"currentColor"},{"circle":true,"r":1.056,"fill":"#FFFFFF"}] },
+  small: { colour: [{"d":"M61.62 41.14 L43.33 60.86 L16.50 58.85 L1.35 36.62 L9.28 10.91 L34.32 1.09 L57.61 14.54 Z","fill":"#122063"},{"d":"M58.76 40.25 L42.23 58.06 L18.00 56.25 L4.31 36.17 L11.47 12.96 L34.09 4.08 L55.13 16.23 Z","fill":"#1A5CFF","stroke":"#FFFFFF","strokeWidth":2.4},{"d":"M32.00 32.00 L52.47 32.00 L57.13 37.85 L42.34 44.97 Z","fill":"#122063","stroke":"#FFFFFF","strokeWidth":2.4,"transform":"rotate(17.142857142857142 32 32)"},{"d":"M37.87 33.98 L49.74 33.98 L52.45 37.37 L43.87 41.50 Z","fill":"#1A5CFF","stroke":"#FFFFFF","strokeWidth":2.4,"transform":"rotate(17.142857142857142 32 32)"},{"d":"M32.00 32.00 L52.47 32.00 L57.13 37.85 L42.34 44.97 Z","fill":"#122063","stroke":"#FFFFFF","strokeWidth":2.4,"transform":"rotate(68.57142857142857 32 32)"},{"d":"M37.87 33.98 L49.74 33.98 L52.45 37.37 L43.87 41.50 Z","fill":"#1A5CFF","stroke":"#FFFFFF","strokeWidth":2.4,"transform":"rotate(68.57142857142857 32 32)"},{"d":"M32.00 32.00 L52.47 32.00 L57.13 37.85 L42.34 44.97 Z","fill":"#122063","stroke":"#FFFFFF","strokeWidth":2.4,"transform":"rotate(120 32 32)"},{"d":"M37.87 33.98 L49.74 33.98 L52.45 37.37 L43.87 41.50 Z","fill":"#1A5CFF","stroke":"#FFFFFF","strokeWidth":2.4,"transform":"rotate(120 32 32)"},{"d":"M32.00 32.00 L52.47 32.00 L57.13 37.85 L42.34 44.97 Z","fill":"#122063","stroke":"#FFFFFF","strokeWidth":2.4,"transform":"rotate(171.42857142857142 32 32)"},{"d":"M37.87 33.98 L49.74 33.98 L52.45 37.37 L43.87 41.50 Z","fill":"#1A5CFF","stroke":"#FFFFFF","strokeWidth":2.4,"transform":"rotate(171.42857142857142 32 32)"},{"d":"M32.00 32.00 L52.47 32.00 L57.13 37.85 L42.34 44.97 Z","fill":"#122063","stroke":"#FFFFFF","strokeWidth":2.4,"transform":"rotate(222.85714285714286 32 32)"},{"d":"M37.87 33.98 L49.74 33.98 L52.45 37.37 L43.87 41.50 Z","fill":"#1A5CFF","stroke":"#FFFFFF","strokeWidth":2.4,"transform":"rotate(222.85714285714286 32 32)"},{"d":"M32.00 32.00 L52.47 32.00 L57.13 37.85 L42.34 44.97 Z","fill":"#122063","stroke":"#FFFFFF","strokeWidth":2.4,"transform":"rotate(274.28571428571433 32 32)"},{"d":"M37.87 33.98 L49.74 33.98 L52.45 37.37 L43.87 41.50 Z","fill":"#1A5CFF","stroke":"#FFFFFF","strokeWidth":2.4,"transform":"rotate(274.28571428571433 32 32)"},{"d":"M32.00 32.00 L52.47 32.00 L57.13 37.85 L42.34 44.97 Z","fill":"#122063","stroke":"#FFFFFF","strokeWidth":2.4,"transform":"rotate(325.7142857142857 32 32)"},{"d":"M37.87 33.98 L49.74 33.98 L52.45 37.37 L43.87 41.50 Z","fill":"#1A5CFF","stroke":"#FFFFFF","strokeWidth":2.4,"transform":"rotate(325.7142857142857 32 32)"},{"circle":true,"r":4.2,"fill":"#FFFFFF"},{"circle":true,"r":2.604,"fill":"#1A5CFF"},{"circle":true,"r":1.008,"fill":"#FFFFFF"}], mono: [{"d":"M61.62 41.14 L43.33 60.86 L16.50 58.85 L1.35 36.62 L9.28 10.91 L34.32 1.09 L57.61 14.54 Z","fill":"currentColor"},{"d":"M58.76 40.25 L42.23 58.06 L18.00 56.25 L4.31 36.17 L11.47 12.96 L34.09 4.08 L55.13 16.23 Z","fill":"currentColor","stroke":"#FFFFFF","strokeWidth":2.4},{"d":"M32.00 32.00 L52.47 32.00 L57.13 37.85 L42.34 44.97 Z","fill":"currentColor","stroke":"#FFFFFF","strokeWidth":2.4,"transform":"rotate(17.142857142857142 32 32)"},{"d":"M37.87 33.98 L49.74 33.98 L52.45 37.37 L43.87 41.50 Z","fill":"currentColor","stroke":"#FFFFFF","strokeWidth":2.4,"transform":"rotate(17.142857142857142 32 32)"},{"d":"M32.00 32.00 L52.47 32.00 L57.13 37.85 L42.34 44.97 Z","fill":"currentColor","stroke":"#FFFFFF","strokeWidth":2.4,"transform":"rotate(68.57142857142857 32 32)"},{"d":"M37.87 33.98 L49.74 33.98 L52.45 37.37 L43.87 41.50 Z","fill":"currentColor","stroke":"#FFFFFF","strokeWidth":2.4,"transform":"rotate(68.57142857142857 32 32)"},{"d":"M32.00 32.00 L52.47 32.00 L57.13 37.85 L42.34 44.97 Z","fill":"currentColor","stroke":"#FFFFFF","strokeWidth":2.4,"transform":"rotate(120 32 32)"},{"d":"M37.87 33.98 L49.74 33.98 L52.45 37.37 L43.87 41.50 Z","fill":"currentColor","stroke":"#FFFFFF","strokeWidth":2.4,"transform":"rotate(120 32 32)"},{"d":"M32.00 32.00 L52.47 32.00 L57.13 37.85 L42.34 44.97 Z","fill":"currentColor","stroke":"#FFFFFF","strokeWidth":2.4,"transform":"rotate(171.42857142857142 32 32)"},{"d":"M37.87 33.98 L49.74 33.98 L52.45 37.37 L43.87 41.50 Z","fill":"currentColor","stroke":"#FFFFFF","strokeWidth":2.4,"transform":"rotate(171.42857142857142 32 32)"},{"d":"M32.00 32.00 L52.47 32.00 L57.13 37.85 L42.34 44.97 Z","fill":"currentColor","stroke":"#FFFFFF","strokeWidth":2.4,"transform":"rotate(222.85714285714286 32 32)"},{"d":"M37.87 33.98 L49.74 33.98 L52.45 37.37 L43.87 41.50 Z","fill":"currentColor","stroke":"#FFFFFF","strokeWidth":2.4,"transform":"rotate(222.85714285714286 32 32)"},{"d":"M32.00 32.00 L52.47 32.00 L57.13 37.85 L42.34 44.97 Z","fill":"currentColor","stroke":"#FFFFFF","strokeWidth":2.4,"transform":"rotate(274.28571428571433 32 32)"},{"d":"M37.87 33.98 L49.74 33.98 L52.45 37.37 L43.87 41.50 Z","fill":"currentColor","stroke":"#FFFFFF","strokeWidth":2.4,"transform":"rotate(274.28571428571433 32 32)"},{"d":"M32.00 32.00 L52.47 32.00 L57.13 37.85 L42.34 44.97 Z","fill":"currentColor","stroke":"#FFFFFF","strokeWidth":2.4,"transform":"rotate(325.7142857142857 32 32)"},{"d":"M37.87 33.98 L49.74 33.98 L52.45 37.37 L43.87 41.50 Z","fill":"currentColor","stroke":"#FFFFFF","strokeWidth":2.4,"transform":"rotate(325.7142857142857 32 32)"},{"circle":true,"r":4.2,"fill":"#FFFFFF"},{"circle":true,"r":2.604,"fill":"currentColor"},{"circle":true,"r":1.008,"fill":"#FFFFFF"}] },
 };
